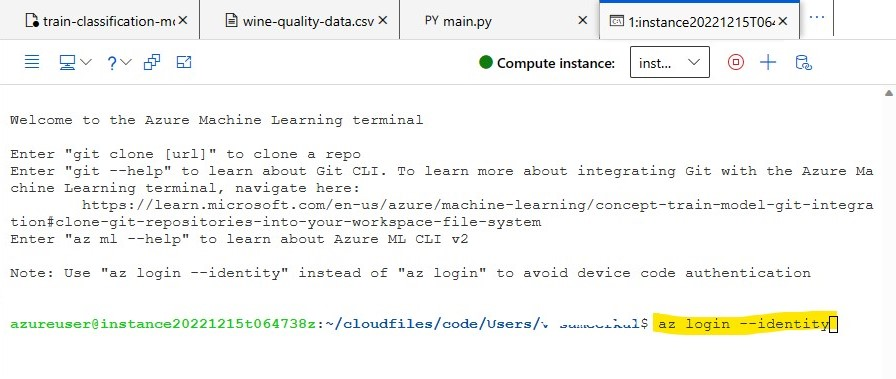
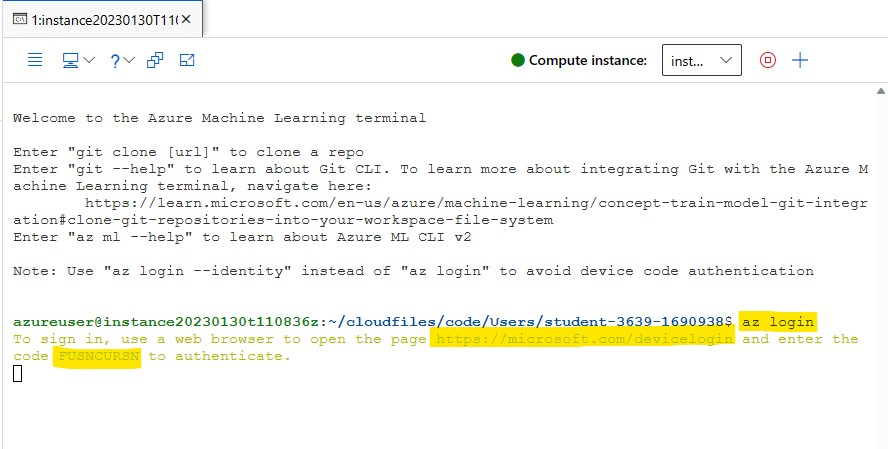
UAT changes

diff --git a/steps/2_triggering-azure-machine-learning-jobs-with-github-actions/documentation.md b/steps/2_triggering-azure-machine-learning-jobs-with-github-actions/documentation.md
@@ -111,7 +111,11 @@ A runner is a server that runs your workflows when they're triggered. Each runne
           working-directory: src
     ```
 
-11. Click on **Add file** and select **Create new file** to create one more directory with the name ```src/model/``` and create a ```main.py``` file, which will be the python script you created in the previous module to train model. Copy-paste the python code from the main.py script created in Azure ML workspace. And Click on **Commit new file** at the bottom of the page.
+    To get resource-group name and workspace-name, goto Azure ML workspace. Click on **workspace** in right-top corner beside **account/profile**. Copy resource-group name and workspace-name into notepad. You will use them in next steps.
+
+    ![add_file](./assets/11_getnames.jpg "add_file")
+
+11. Navigate to **<> Code**  and click on **Add file** and select **Create new file** to create one more directory with the name ```src/model/``` and create a ```main.py``` file, which will be the python script you created in the previous module to train model. Copy-paste the python code from the main.py script created in Azure ML workspace. And Click on **Commit new file** at the bottom of the page.
     
     ![add_file](./assets/11_add_file.jpg "add_file")
     
@@ -134,7 +138,7 @@ A runner is a server that runs your workflows when they're triggered. Each runne
         path: azureml:nyc-taxi-data:1
         mode: ro_mount  
     environment: azureml:AzureML-sklearn-0.24-ubuntu18.04-py37-cpu@latest
-    compute: cluster20230111T062714Z
+    compute: <cluster name>
     experiment_name: nyc-taxi-fare-prices
     description: Train a classification model on nyc taxi data to predict taxi fare prices.
     ```    
@@ -145,44 +149,13 @@ A runner is a server that runs your workflows when they're triggered. Each runne
 
 When you use GitHub Actions to automate Azure Machine Learning jobs, you need to use a service principal to authenticate GitHub to manage the Azure Machine Learning workspace. For example, to train a model using Azure Machine Learning compute, you or any tool that you use, needs to be authorized to use that compute.
 
-Create a service principal, using the Cloud Shell in the Azure portal, which has contributor access to your resource group.  Use the following command:
+You can create a service principal, using the Cloud Shell in the Azure portal, which has contributor access to your resource group using the following command:
     
 ```bash
 az ad sp create-for-rbac --name "<service-principal-name>" --role contributor --scopes /subscriptions/<subscription-id>/resourceGroups/<your-resource-group-name> --sdk-auth
 ```
 
-- Give ```gitserviceprincipal``` as **<service-principal-name\>**.
-- For **<subscription-id\>** and **<your-resource-group-name\>**, Goto the resource group created in Azure Portal, copy the **Resource group** name and **Subscription ID** will be available under **Essentials**. Copy and Paste in the required fields.
-
-    ![subscription](./assets/15_subscription.jpg "subscription")
-
-Run the above command after updating all the fields in Azure Portal Cloud Shell. Save the output, you’ll also need it for next modules.
-
-- Go to Azure Portal, At the top, right side of search menu, you will see **Cloud Shell**. Open it.
-
-    ![cloudshell](./assets/16_cloudshell.jpg "cloudshell")
-
-- Paste the command in azure cloud shell and hit enter.
-
-    ![run](./assets/17_run.jpg "run")
-
-- The output of the service principal should be a JSON with the following structure:
-
-```json
-{
-"clientId": "your-client-id",
-"clientSecret": "your-client-secret",
-"subscriptionId": "your-subscription-id",
-"tenantId": "your-tenant-id",
-"activeDirectoryEndpointUrl": "https://login.microsoftonline.com",
-"resourceManagerEndpointUrl": "https://management.azure.com/",
-"activeDirectoryGraphResourceId": "https://graph.windows.net/",
-"sqlManagementEndpointUrl": "https://management.core.windows.net:8443/",
-"galleryEndpointUrl": "https://gallery.azure.com/",
-"managementEndpointUrl": "https://management.core.windows.net/"
-}
-```
-
+- The output of the service principal should be a JSON with the following structure.
 - The output for the service principal created by the Cloud Academy lab environment for your current lab session is below:
 
 ```
@@ -241,30 +214,7 @@ To define a workflow, you'll need to create a YAML file. You can trigger the wor
 
 To configure a GitHub Actions workflow so that you can trigger it manually, use ```on: workflow_dispatch```. To trigger a workflow with a push event, use ```on: [push]```.
 
-Once the GitHub Actions workflow is triggered, you can add various steps to a job. For example, you can use a step to run an Azure Machine Learning job:
-    
-```yaml
-name: Manually trigger an Azure Machine Learning job
-
-on: 
-  workflow_dispatch:
-
-jobs:
-  train:
-    runs-on: ubuntu-latest
-    steps:
-    - name: Check out repo
-      uses: actions/checkout@main
-    - name: Install az ml extension
-      run: az extension add -n ml -y
-    - name: Azure login
-      uses: azure/login@v1
-      with:
-        creds: ${{secrets.AZURE_CREDENTIALS}}
-    - name: run ml job
-      run: az ml job create --file job.yaml --resource-group <resource group name> --workspace-name <Azure ML workspace name>
-      working-directory: src
-```
+You have already created a Github Action in Exercise 1 with file name ```01-manual-trigger-job.yaml```.
 
 ## Exercise 5: Manually trigger the workflow
 

diff --git a/steps/6_deploying-a-model-with-github-actions/documentation.md b/steps/6_deploying-a-model-with-github-actions/documentation.md
@@ -6,11 +6,11 @@ Using the Azure Machine Learning CLI (v2), you want to set up an automated workf
 
 To get value from a machine learning model, you'll have to deploy it. Whenever you deploy a model you can generate predictions whenever necessary to give you insights.
 
-In other words, you need to deploy the model to a real-time endpoint. The web app should be able to send the wine quality data to the endpoint and get a prediction in return.
+In other words, you need to deploy the model to a real-time endpoint. The web app should be able to send the nyc taxi fare data to the endpoint and get a prediction in return.
 
-When you want to deploy a model, you have a choice between an online endpoint for real-time predictions or a batch endpoint for batch predictions. As the model will be integrated with a web app where the you will input wine data expecting to get a direct response, you choose to deploy the model to an online endpoint.
+When you want to deploy a model, you have a choice between an online endpoint for real-time predictions or a batch endpoint for batch predictions. As the model will be integrated with a web app where the you will input taxi fare data expecting to get a direct response, you choose to deploy the model to an online endpoint.
 
-You can deploy the model manually in the Azure Machine Learning workspace. However, you expect to deploy more models in the future. And you want to easily redeploy the wine quality model whenever the model has been retrained. You therefore want to automate the model deployment wherever possible.
+You can deploy the model manually in the Azure Machine Learning workspace. However, you expect to deploy more models in the future. And you want to easily redeploy the nyc taxi data model whenever the model has been retrained. You therefore want to automate the model deployment wherever possible.
 
 ## Prerequisites
 
@@ -36,7 +36,7 @@ When you log a model during model training, the model is stored in the job outpu
 
 To register the model, you can point to either a job's output, or to a location in an Azure Machine Learning datastore.
 
-1. Go to Azure ML workspace, navigate to **Jobs** > **All jobs** and select the successfull job run from previous module. 
+1. Go to Azure ML workspace, navigate to **Jobs** > **All jobs** and select the latest successfull job run from previous lab step. 
 
     ![Jobs](./assets/1_jobs.jpg "Jobs")
     
@@ -189,9 +189,11 @@ Please cross-check the **endpoint** name you give in ```mlflow-deployment.yaml``
 
     ![run](./assets/11_run.jpg "run")
     
-3. You can two jobs running. One for creating endpoint and another for deploying the model.
+3. You can see two jobs running. One for creating endpoint and another for deploying the model.
 
     ![workflow](./assets/13_workflow.jpg "workflow")
+    
+    ![workflow](./assets/14_workflow.jpg "workflow")
     
 4. Goto your Azure ML workspace to check the endpoint created and model deployed to it.
 

diff --git a/steps/1_using-an-azure-machine-learning-job-for-automation/documentation.md b/steps/1_using-an-azure-machine-learning-job-for-automation/documentation.md
@@ -44,7 +44,7 @@ Machine learning operations (MLOps) applies DevOps principles to machine learnin
 - Trigger Azure Machine Learning Job  
 
 
-## Exercise 1: Create a Notebook that trains a Machine Learning model to predict quality of wine.
+## Exercise 1: Create a Notebook that trains a Machine Learning model to predict NYC Taxi Fare price.
 
 1. Go to the resource group deployed in the Azure Portal. Amongst the list of resources, open the Azure Machine Learning workspace.
 
@@ -440,13 +440,19 @@ Whenever you want to run an Azure Machine Learning job, you can use the CLI v2. 
 
 2. First login to your azure account using the below command.
 
-    ![azlogin](./assets/36_azlogin.jpg "azlogin")
-
     ```cmd
     az login
     ```
+    
+    ![azlogin](./assets/36_azlogin.jpg "azlogin")
+    
+3. You will see a link and a code to authenticate. Open the link and enter the code to authenticate and select your account and click **Continue**.
+    
+    ![azlogin](./assets/37_azlogin.jpg "azlogin")
+    
+    ![azlogin](./assets/38_azlogin.jpg "azlogin")
 
-3. Now, you can submit an Azure Machine Learning job using the following command:
+4. After logging in, you can submit an Azure Machine Learning job using the following command:
 
     ![runjob](./assets/37_runjob.jpg "runjob")
 
@@ -454,11 +460,10 @@ Whenever you want to run an Azure Machine Learning job, you can use the CLI v2. 
     az ml job create --file job.yaml
     ```
 
-4. On the left side, Goto **Jobs** and select **All jobs**. Here you can see all the jobs that you had run.
+5. On the left side, Goto **Jobs** and select **All jobs**. Here you can see all the jobs that you had run.
 
     ![job](./assets/38_job.jpg "job")
 
-5. Click on the **Job Display Name** to view more details.
+6. Click on the **Job Display Name** to view more details.
 
     ![jobdetails](./assets/39_jobdetails.jpg "jobdetails")
-

diff --git a/steps/4_working-with-linting-and-unit-testing-in-github-actions/documentation.md b/steps/4_working-with-linting-and-unit-testing-in-github-actions/documentation.md
@@ -8,7 +8,7 @@ Before moving code to production, you'll also want to check the performance of t
 
 Only when you've verified the code quality do you want to use the code in production. You can use GitHub Actions to automatically check the code whenever a pull request is created.
 
-To verify the code used to train the wine quality model, you'll want to run:
+To verify the code used to train the nyc taxi fare price model, you'll want to run:
 
 - **Linting**: Checking for programmatic or stylistic errors in Python scripts.
 - **Unit testing**: Checking for the performance of the contents of the code.
@@ -107,7 +107,7 @@ As a best practice, your code should exist mostly out of functions. Whether you'
 
 When you work with Python, you can use Pytest and Numpy (which uses the Pytest framework) to test your code.
 
-You created a training script ```main.py```, in step 1, which contains the following function:
+You created a training script ```main.py```, in lab step 3 **Using an Azure Machine Learning Job for Automation**, which contains the following function:
 
 ```python
 #function to read CSV file

diff --git a/steps/5_working-with-environments-in-github-actions/documentation.md b/steps/5_working-with-environments-in-github-actions/documentation.md
@@ -57,7 +57,7 @@ Go to the **Settings** tab within your repo. Select **Environments**. Create a *
 
 Create one GitHub Actions workflow, triggered by changes being pushed to the main branch, with two jobs:
 
-- The experiment job that trains the model using the wine-quality dataset in the development environment.
+- The experiment job that trains the model using the nyc-taxi-data dataset in the development environment.
 - The production job that trains the model in the production environment.
 
 Add a condition that the production job is only allowed to run when the experiment job ran successfully. Success means that the Azure Machine Learning job ran successfully too.
